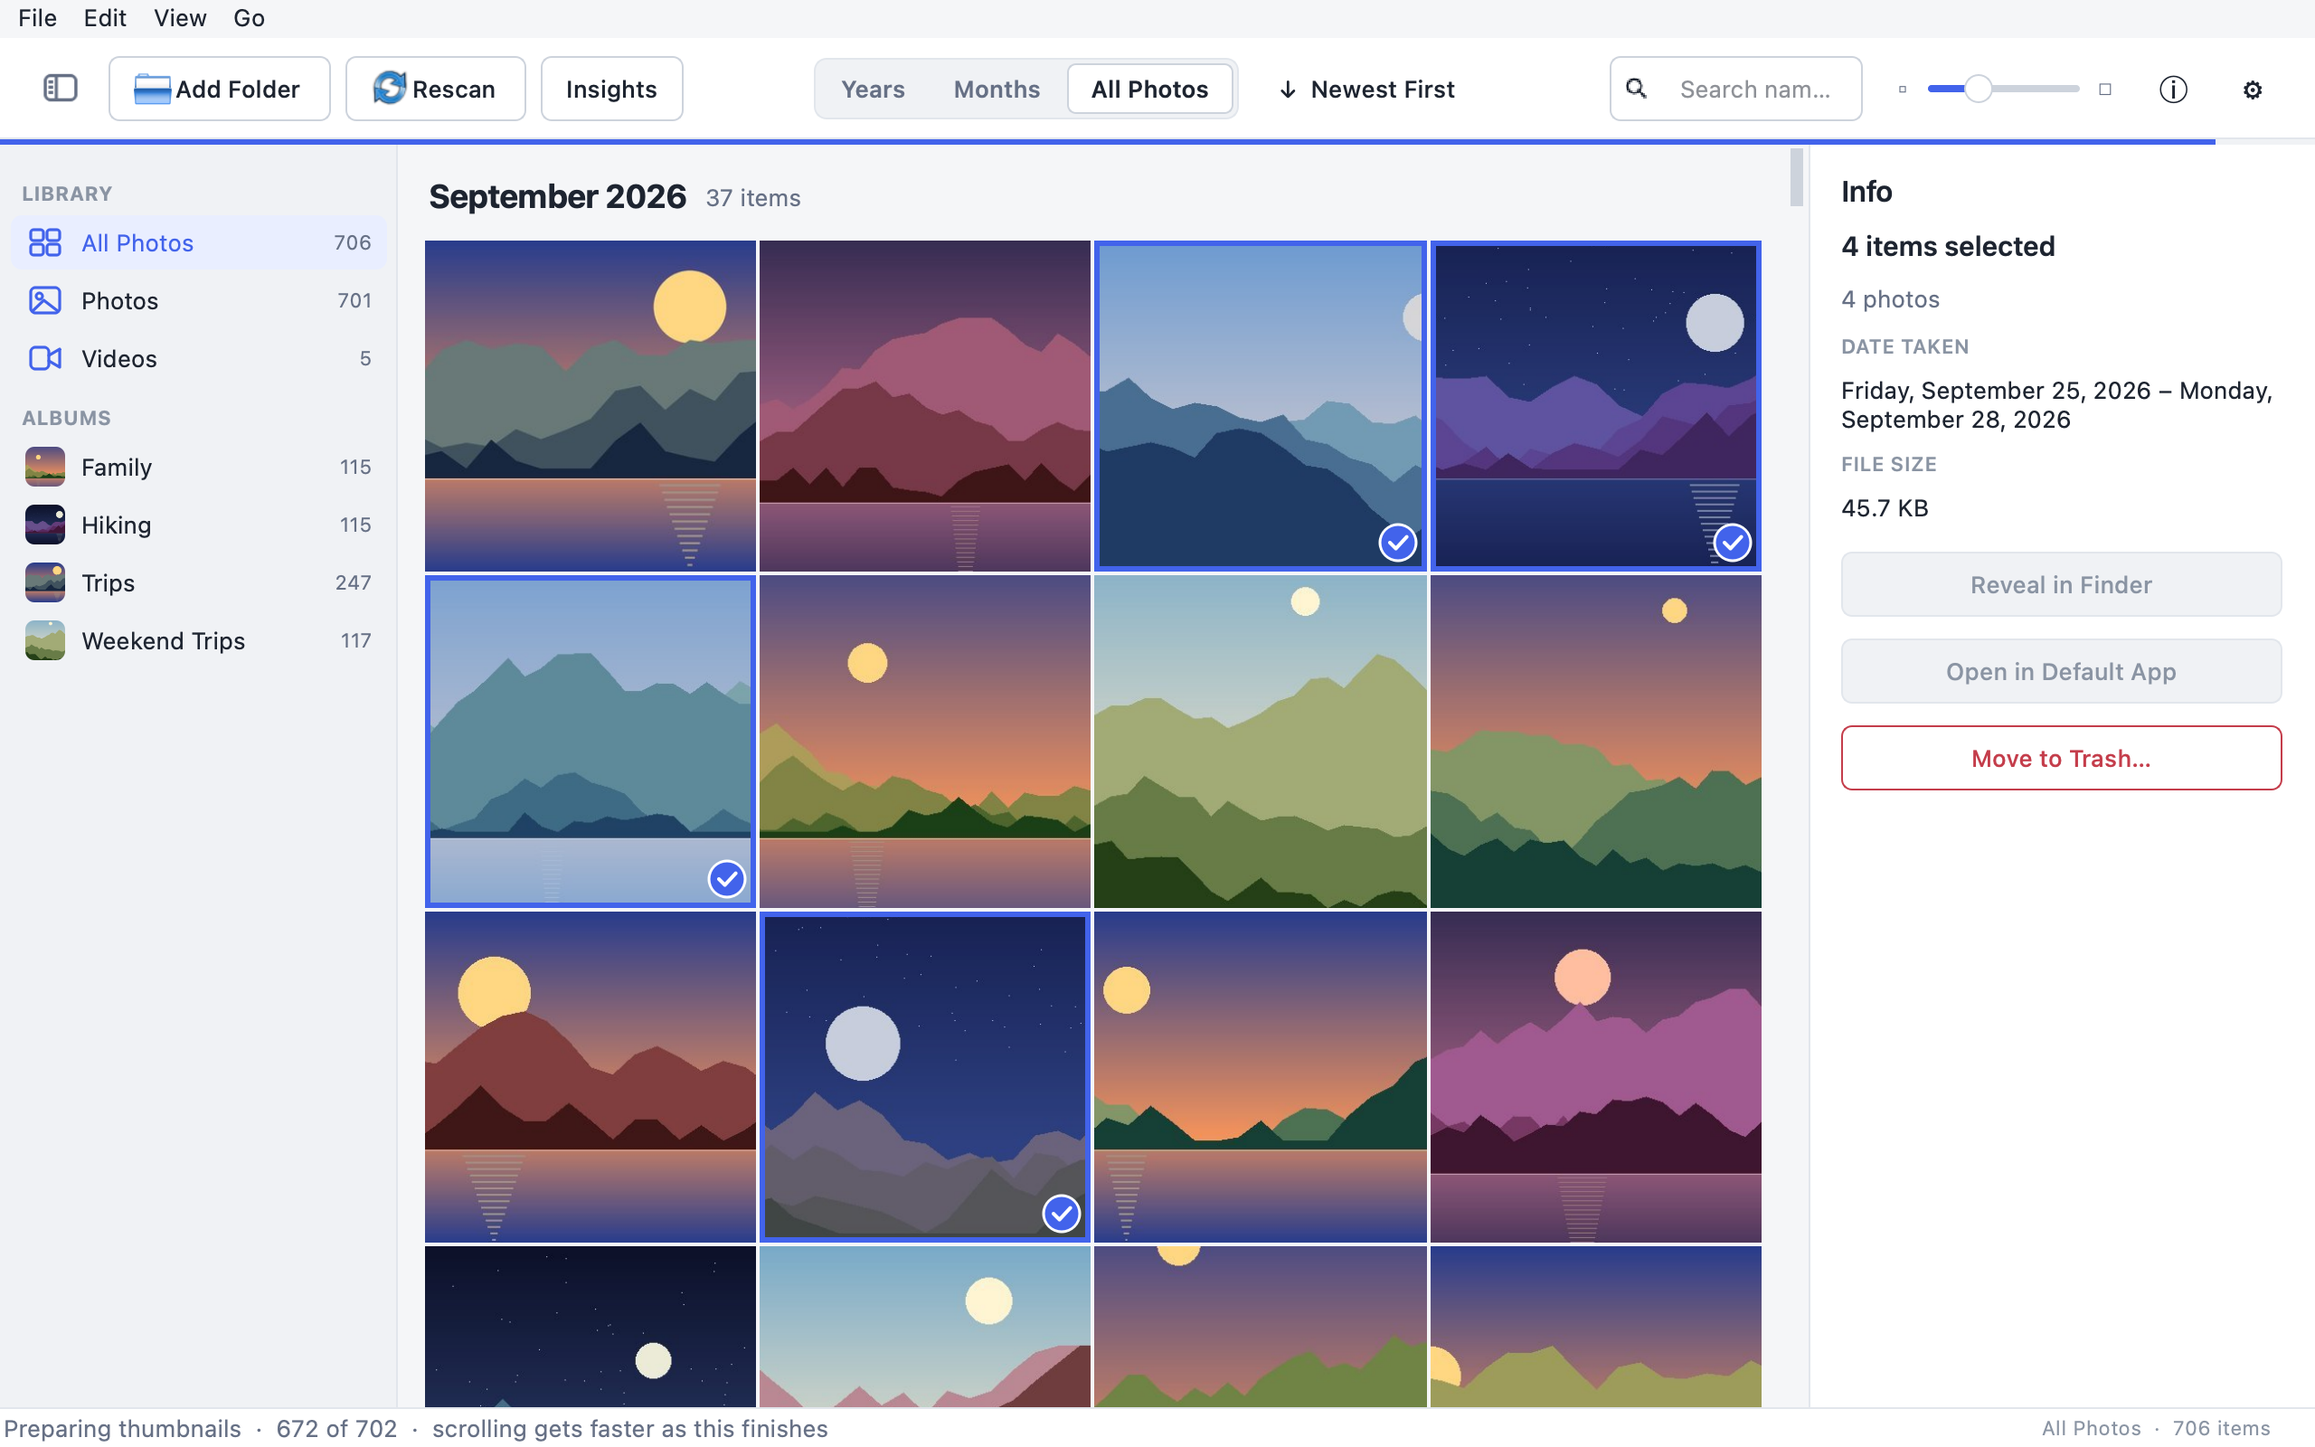
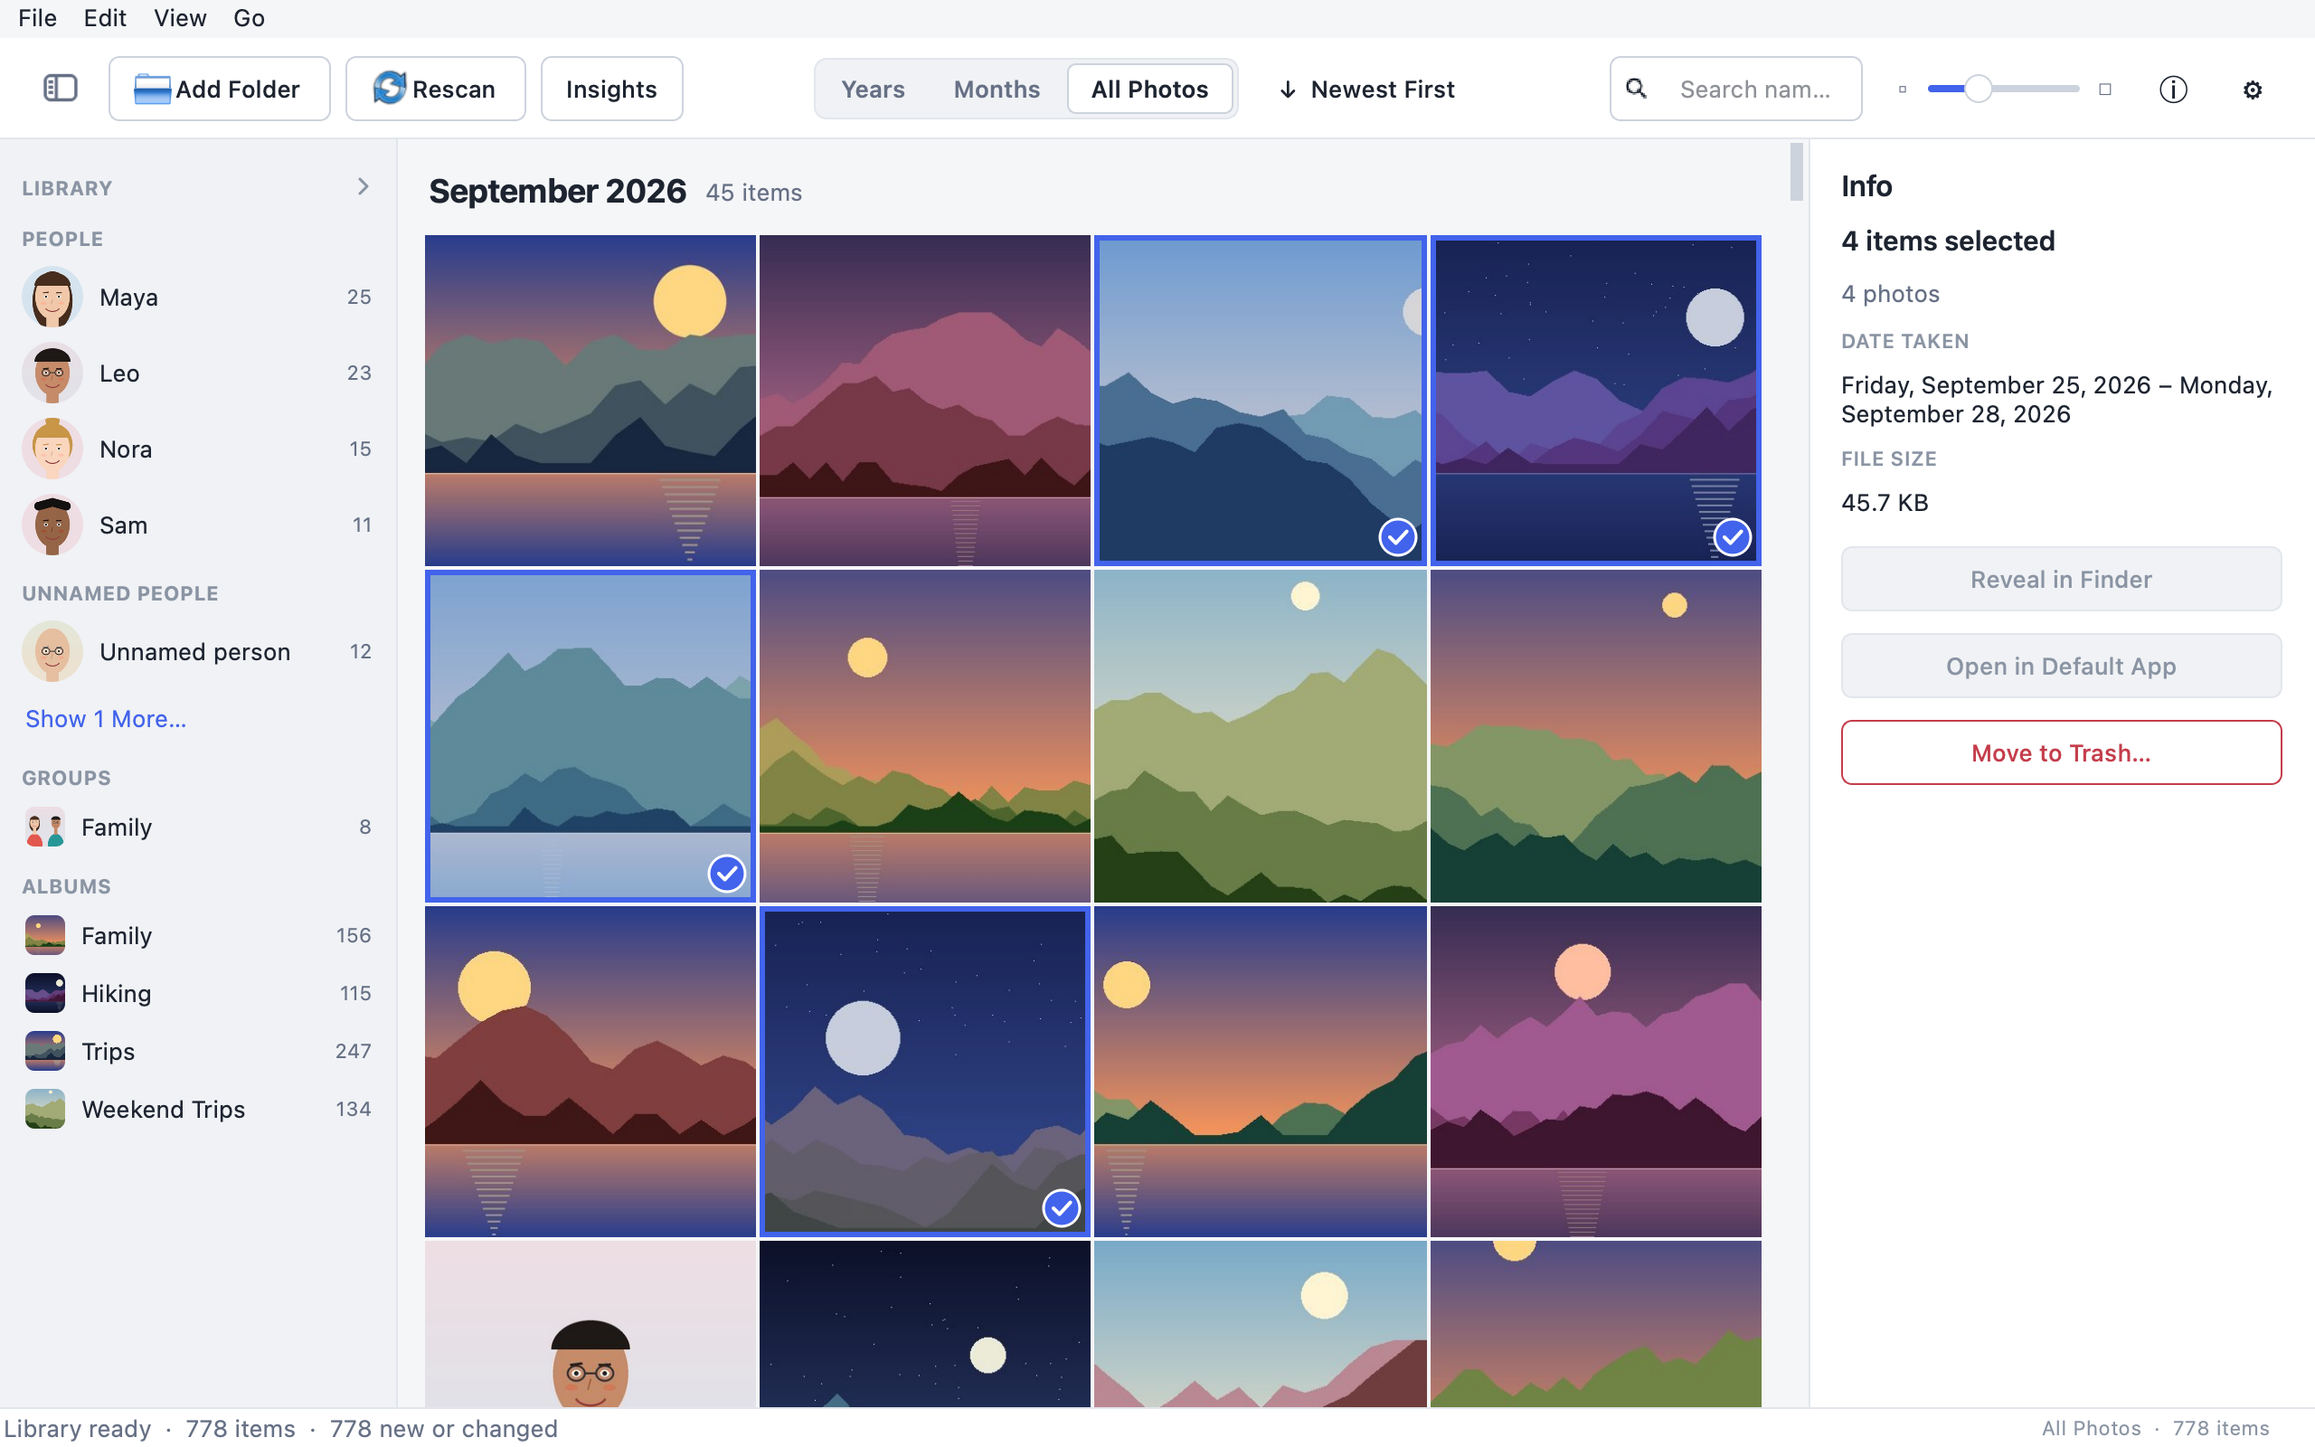
Screenshots of People, a group, Review and faces in the viewer
The screenshot tool draws made-up cartoon people and recognises them with a
stand-in engine (by shirt and skin colour), so no real faces or models are used.
All README screenshots are regenerated; the sidebar now shows People too.

diff --git a/tools/make_screenshots.py b/tools/make_screenshots.py
@@ -5,6 +5,10 @@
 Runs the real app headless (Qt "offscreen" platform) against a temporary library of
 procedurally drawn landscapes, so the images contain no personal photos, paths or
 metadata. Output goes to assets/screenshots/.
+
+People are made up too: cartoon portraits drawn here, recognised by a stand-in face engine
+(`DemoFaceEngine`) that knows each made-up person by their shirt colour. No real faces and no
+face models are involved.
 """
 
 import importlib.util
@@ -26,7 +30,7 @@ os.environ.setdefault("QT_QPA_PLATFORM", "offscreen")
 os.environ.setdefault("QT_SCALE_FACTOR", "2")  # Retina-sharp images
 sys.path.insert(0, str(PROJECT))
 
-from PIL import Image  # noqa: E402
+from PIL import Image, ImageDraw  # noqa: E402
 from PySide6.QtCore import QTimer  # noqa: E402
 from PySide6.QtWidgets import QApplication  # noqa: E402
 
@@ -58,6 +62,128 @@ def build_library(folder: Path) -> None:
         album = folder / rng.choice(albums)
         album.mkdir(parents=True, exist_ok=True)
         demo.make_video(album / f"MOV_{index:04d}.mp4", taken, rng)
+    number = 5000
+    for people, count in PORTRAITS:
+        for _ in range(count):
+            # Mostly this year, so a person's months fill up.
+            taken = end - timedelta(days=(rng.random() ** 1.5) * 300, minutes=rng.randrange(1440))
+            album = rng.choice(["Family", "Family", "Weekend Trips", ""])
+            make_portrait(folder / album / f"IMG_{number}.jpg", taken, people, rng)
+            number += 1
+
+
+# Made-up people: (name or "" for unnamed, skin, hair, hair style, shirt, glasses).
+PEOPLE = {
+    1: ("Maya", (241, 200, 170), (70, 45, 30), "long", (226, 88, 78), False),
+    2: ("Leo", (198, 140, 105), (30, 25, 22), "short", (38, 150, 150), True),
+    3: ("Nora", (250, 214, 190), (200, 150, 70), "bun", (132, 90, 192), False),
+    4: ("Sam", (150, 100, 70), (20, 18, 16), "curly", (222, 170, 40), False),
+    5: ("", (230, 190, 160), (120, 120, 125), "bald", (78, 160, 70), True),
+    6: ("", (210, 165, 130), (90, 60, 40), "short", (52, 72, 140), False),
+}
+# Who is in each portrait (one or two people), and how many such photos.
+PORTRAITS = [((1,), 14), ((2,), 10), ((3,), 8), ((4,), 7), ((1, 2), 8), ((3, 4), 4), ((1, 3), 3),
+             ((5,), 7), ((2, 5), 5), ((6,), 6)]
+BACKDROPS = [(214, 228, 240), (236, 226, 210), (222, 236, 222), (238, 222, 228), (226, 226, 232)]
+SHIRT_Y = 0.9
+
+
+def _slots(count: int) -> list[float]:
+    return [0.5] if count == 1 else [0.3, 0.7]
+
+
+def make_portrait(path: Path, taken: datetime, people: tuple[int, ...], rng: random.Random) -> None:
+    """A cartoon portrait of one or two made-up people."""
+    width, height = 1600, 1200
+    image = Image.new("RGB", (width, height), rng.choice(BACKDROPS))
+    draw = ImageDraw.Draw(image)
+    top = rng.choice(BACKDROPS)
+    for y in range(height // 2):  # a soft gradient behind them
+        t = y / (height / 2)
+        colour = tuple(int(a * (1 - t) + b * t) for a, b in zip(top, image.getpixel((0, height - 1))))
+        draw.line([(0, y), (width, y)], fill=colour)
+    half_body = 0.17 if len(people) == 1 else 0.15
+    for cx, person in zip(_slots(len(people)), people):
+        _name, skin, hair, style, shirt, glasses = PEOPLE[person]
+        x = cx * width
+        head_w, head_h = 0.17 * width, 0.30 * height
+        head = (x - head_w / 2, 0.25 * height, x + head_w / 2, 0.55 * height)
+        if style in ("long", "bun"):  # hair behind the head
+            draw.ellipse((head[0] - 22, head[1] - 20, head[2] + 22, head[3] + (90 if style == "long" else -40)), fill=hair)
+        draw.ellipse(((cx - half_body) * width, 0.68 * height, (cx + half_body) * width, 1.25 * height), fill=shirt)
+        draw.rectangle((x - 0.03 * width, 0.5 * height, x + 0.03 * width, 0.7 * height), fill=skin)
+        draw.ellipse(head, fill=skin)
+        if style == "bun":
+            draw.ellipse((x - 55, head[1] - 95, x + 55, head[1] + 15), fill=hair)
+        if style in ("long", "short", "bun"):
+            draw.chord((head[0] - 6, head[1] - 12, head[2] + 6, head[1] + head_h * 0.55), 180, 360, fill=hair)
+        elif style == "curly":
+            for dx in range(-5, 6):
+                draw.ellipse((x + dx * 22 - 34, head[1] - 30 + abs(dx) * 6, x + dx * 22 + 34, head[1] + 38 + abs(dx) * 6),
+                             fill=hair)
+        eye_y = 0.40 * height
+        for side in (-1, 1):
+            ex = x + side * 0.032 * width
+            draw.ellipse((ex - 16, eye_y - 12, ex + 16, eye_y + 12), fill=(255, 255, 255))
+            draw.ellipse((ex - 8, eye_y - 8, ex + 8, eye_y + 8), fill=(40, 34, 30))
+            draw.line((ex - 22, eye_y - 30, ex + 22, eye_y - 34 + side * 2), fill=hair, width=9)
+            draw.ellipse((ex + side * 18 - 22, eye_y + 40, ex + side * 18 + 22, eye_y + 62),
+                         fill=tuple(min(255, c + 12) if i == 0 else max(0, c - 18) for i, c in enumerate(skin)))
+            if glasses:
+                draw.ellipse((ex - 34, eye_y - 30, ex + 34, eye_y + 30), outline=(45, 45, 50), width=7)
+        if glasses:
+            draw.line((x - 0.032 * width + 34, eye_y, x + 0.032 * width - 34, eye_y), fill=(45, 45, 50), width=7)
+        draw.line((x, eye_y + 20, x - 10, eye_y + 60), fill=tuple(max(0, c - 40) for c in skin), width=6)
+        draw.arc((x - 60, eye_y + 40, x + 60, eye_y + 120), 20, 160, fill=(150, 60, 60), width=8)
+    exif = Image.Exif()
+    exif.get_ifd(0x8769)[36867] = taken.strftime("%Y:%m:%d %H:%M:%S")
+    path.parent.mkdir(parents=True, exist_ok=True)
+    image.save(path, quality=90, exif=exif)
+
+
+class DemoFaceEngine:
+    """Finds the made-up people in `make_portrait` pictures by their shirt colour (screenshots only)."""
+
+    version = 1
+
+    def __init__(self):
+        import numpy as np
+        self.np = np
+        self.vectors = {}
+        for person in PEOPLE:
+            vector = np.random.default_rng(person * 7919).normal(size=128)
+            self.vectors[person] = vector / np.linalg.norm(vector)
+        self.noise = np.random.default_rng(5)
+
+    @staticmethod
+    def _colour(image, fx: float, fy: float):
+        x, y = int(fx * image.width), int(fy * image.height)
+        return image.crop((x - 6, y - 6, x + 6, y + 6)).resize((1, 1)).getpixel((0, 0))
+
+    @staticmethod
+    def _close(a, b, limit: int = 40) -> bool:
+        return sum((p - q) ** 2 for p, q in zip(a, b)) < limit ** 2
+
+    def _person_at(self, image, cx: float):
+        """The made-up person whose shirt is at this spot, if their skin is where their cheek should be."""
+        shirt, cheek = self._colour(image, cx, SHIRT_Y), self._colour(image, cx, 0.53)  # chin, below the smile
+        for person, entry in PEOPLE.items():
+            if self._close(entry[4], shirt) and self._close(entry[1], cheek):
+                return person
+        return None
+
+    def detect(self, image):
+        from photolibrary.core.faces import Face
+        np, rgb = self.np, image.convert("RGB")
+        slots = [0.5] if self._person_at(rgb, 0.5) else [0.3, 0.7]
+        faces = []
+        for cx in slots:
+            person = self._person_at(rgb, cx)
+            if person:
+                vector = self.vectors[person] + self.noise.normal(scale=0.03, size=128)
+                vector = (vector / np.linalg.norm(vector)).astype(np.float32)
+                faces.append(Face(cx - 0.085, 0.25, 0.17, 0.30, 0.97, vector.tobytes()))
+        return faces
 
 
 def save(window, name: str) -> None:
@@ -78,7 +204,8 @@ def main() -> None:
     app_data.mkdir(parents=True)
     (app_data / "config.json").write_text(
         '{"library_folder": %s, "view_mode": "all", "zoom": 150, "theme": "light", '
-        '"sidebar_visible": true, "info_panel_visible": false, "time_format": "12"}'
+        '"sidebar_visible": true, "info_panel_visible": false, "time_format": "12", "find_people": true, '
+        '"collapsed_sections": ["library"]}'
         % __import__("json").dumps(str(library)), encoding="utf-8")
 
     from photolibrary.ui.main_window import MainWindow
@@ -86,13 +213,15 @@ def main() -> None:
     app = QApplication(sys.argv)
     app.setStyle("Fusion")
     window = MainWindow(app)
+    window.face_engine_factory = lambda _models: DemoFaceEngine()
     window.resize(*WINDOW_SIZE)
     window.show()
 
     def idle() -> bool:
         loader = window.loader
         return (not window.scanning and window.snapshot is not None and not loader._requested
-                and len(loader._read_queue) == 0 and len(loader._generate_queue) == 0)
+                and len(loader._read_queue) == 0 and len(loader._generate_queue) == 0
+                and not window.people_pending and bool(window.people_list))
 
     steps = []
 
@@ -109,6 +238,29 @@ def main() -> None:
             return
         # Let the last thumbnails paint before grabbing.
         QTimer.singleShot(400, lambda: (steps.pop(0)(), QTimer.singleShot(300, run_next)))
+
+    from photolibrary.core.database import open_database
+
+    def person_id(name: str) -> int:
+        return next(person.id for person in window.people_list if person.name == name)
+
+    def name_people():
+        """Name the made-up people (each found person is whoever most of their photos show)."""
+        by_file = {f"IMG_{number}.jpg": people for number, people in enumerate(
+            (people for people, count in PORTRAITS for _ in range(count)), start=5000)}
+        for person in window.people_list:
+            votes = {}
+            for item in window.repository.query(window.roots, person=person.id):
+                for drawn in by_file.get(item.name, ()):
+                    votes[drawn] = votes.get(drawn, 0) + 1
+            drawn = max(votes, key=votes.get)
+            if PEOPLE[drawn][0]:
+                window.repository.rename_person(person.id, PEOPLE[drawn][0])
+        window.refresh_library()
+
+    def make_group():
+        window.repository.create_group("Family", [person_id("Maya"), person_id("Leo")])
+        window.refresh_library()
 
     def library_shot():
         if not window.settings.info_panel_visible:
@@ -151,6 +303,8 @@ def main() -> None:
         row = next((i for i, item in enumerate(items) if item.name == "IMG_HERO.jpg"), 0)
         window.open_viewer(row)
 
+    then(name_people)
+    then(make_group)
     then(library_shot)
     then(prepare_years)
     then(lambda: save(window, "years"))
@@ -165,8 +319,44 @@ def main() -> None:
     then(open_viewer)
     then(lambda: None)  # give the full-size decode a moment to replace the thumbnail
     then(lambda: save(window, "viewer"))
+
+    def people_shot():
+        window.close_viewer()
+        window.sidebar.select_scope("person", None, person_id("Maya"))
+        window.view.verticalScrollBar().setValue(0)
+
+    def loosen_faces():
+        """Leave a few of Nora's faces ungrouped, as grouping sometimes does, for Review to ask about."""
+        connection = open_database()
+        try:
+            ids = [row[0] for row in connection.execute(
+                "SELECT id FROM faces WHERE person_id = ? ORDER BY id LIMIT 3", (person_id("Nora"),))]
+            connection.executemany("UPDATE faces SET person_id = NULL, pinned = 0 WHERE id = ?", [(i,) for i in ids])
+            connection.commit()
+        finally:
+            connection.close()
+        window.refresh_library()
+
+    def viewer_faces():
+        window.close_review()
+        window.sidebar.select_scope("group", None, next(group.id for group in window.groups_list))
+
+    def open_faces():
+        window.open_viewer(0)
+        window.viewer.faces_button.setChecked(True)
+
+    then(people_shot)
+    then(lambda: save(window, "people"))
+    then(loosen_faces)
+    then(window.show_review)
+    then(lambda: save(window, "review"))
+    then(viewer_faces)
+    then(lambda: save(window, "group"))
+    then(open_faces)
+    then(lambda: None)  # the faces load in the background
+    then(lambda: save(window, "viewer-faces"))
     QTimer.singleShot(500, run_next)
-    QTimer.singleShot(180_000, app.quit)  # safety net
+    QTimer.singleShot(300_000, app.quit)  # safety net
     app.exec()
 
 

diff --git a/README.md b/README.md
@@ -125,8 +125,9 @@ incremental indexer) come from the On This Day app.
 ## Screenshots
 
 These screenshots come from a synthetic demo library of computer-drawn landscapes with
-made-up dates. They contain no personal photos, file paths or metadata. To regenerate
-them, run `python tools/make_screenshots.py`.
+made-up dates. The people are made up too: cartoon portraits drawn by the script and recognised
+by a stand-in face engine, so no real faces or face models are involved. They contain no
+personal photos, file paths or metadata. To regenerate them, run `python tools/make_screenshots.py`.
 
 ### Library with the info panel
 
@@ -134,6 +135,32 @@ All Photos grouped by month, with albums in the sidebar and a multi-item selecti
 summarised in the info panel.
 
 ![All Photos grid with sidebar, a selection of four photos and the info panel](assets/screenshots/library.png)
+
+### People
+
+A person's photos, with named people, unnamed people (the few-photo ones folded behind
+"Show 1 More…") and a group in the sidebar.
+
+![People in the sidebar and Maya's photos in the grid](assets/screenshots/people.png)
+
+### A group
+
+The Family group shows only the photos in which everyone in it appears together. Review
+Suggestions sits at the top of People when there is something to ask.
+
+![The Family group with photos of Maya and Leo together](assets/screenshots/group.png)
+
+### Review People
+
+"Is this Nora?": a face that wasn't grouped, next to the named person it looks like.
+
+![Review People asking whether a face is Nora](assets/screenshots/review.png)
+
+### Faces in the viewer
+
+Press F to outline each face with its name; click a face to confirm or correct it.
+
+![Viewer with named face boxes for Maya and Leo](assets/screenshots/viewer-faces.png)
 
 ### Years
 
